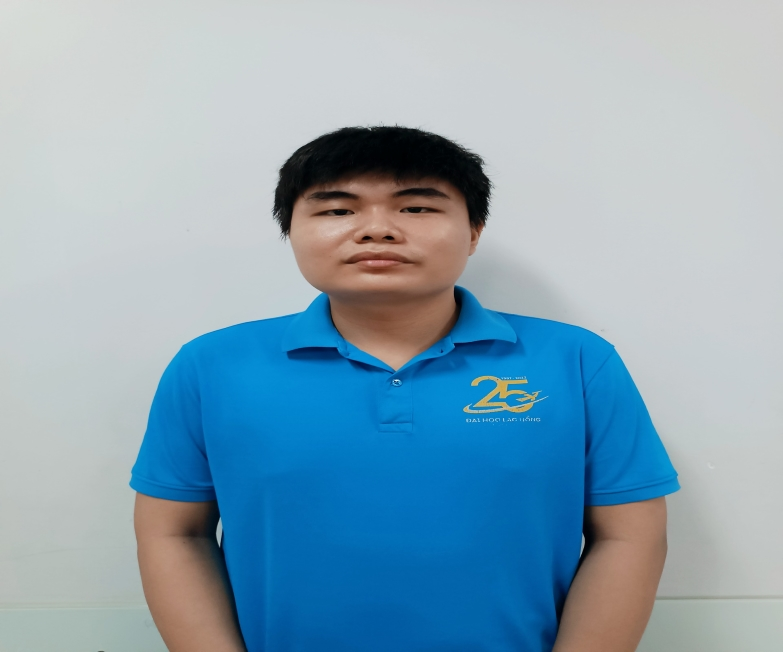
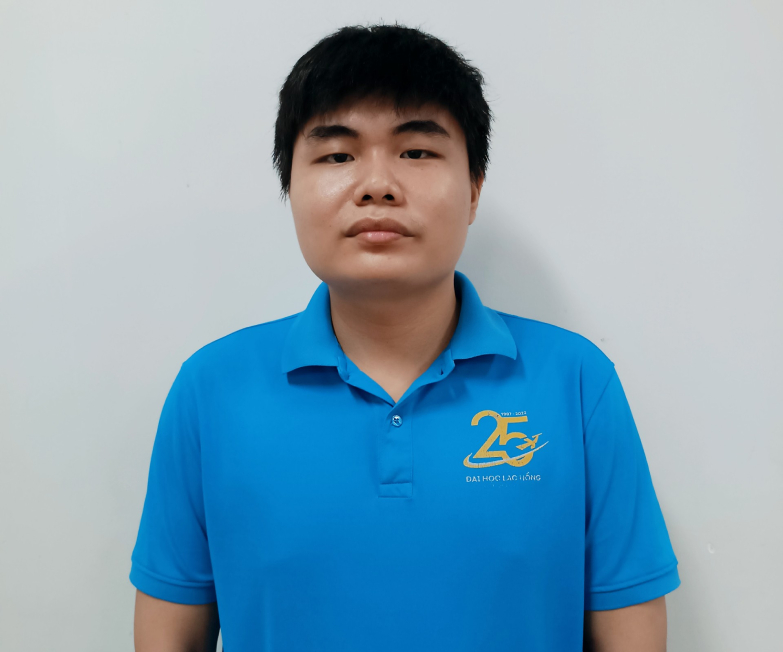
update grid for "Steps" and contributor picture

diff --git a/index.html b/index.html
@@ -116,7 +116,7 @@
         page when looking at its layout. The point of using Lorem</p>
       <div class="product_section_2">
         <div class="row">
-          <div class="col-md-5 offset-md-1 mb-4" style="border-radius: 10px; padding: 0; box-shadow: 1px 1px 8px #888888;">
+          <div class="col-md-5 offset-md-1 col-sm-11 offset-sm-1 col-10 offset-1 col-lg-3 mb-4" style="border-radius: 10px; padding: 0; box-shadow: 1px 1px 8px #888888;">
             <div class="image_2"><img src="images/nhunStep.jpg"
                 style="border-top-left-radius: 10px; border-top-right-radius: 10px;"></div>
             <div style="padding: 0 10px;">
@@ -126,7 +126,7 @@
                 content of a page when looking at its layout. The point of using Lorem lo</p>
             </div>
           </div>
-          <div class="col-md-5 offset-md-1 mb-4" style="border-radius: 10px; padding: 0; box-shadow: 1px 1px 8px #888888;">
+          <div class="col-md-5 offset-md-1 col-sm-11 offset-sm-1 col-10 offset-1 col-lg-3 mb-4" style="border-radius: 10px; padding: 0; box-shadow: 1px 1px 8px #888888;">
             <div class="image_2"><img src="images/nhunStep.jpg"
                 style="border-top-left-radius: 10px; border-top-right-radius: 10px;"></div>
             <div style="padding: 0 10px;">
@@ -136,7 +136,7 @@
                 content of a page when looking at its layout. The point of using Lorem lo</p>
             </div>
           </div>
-          <div class="col-md-5 offset-md-1 mb-4" style="border-radius: 10px; padding: 0; box-shadow: 1px 1px 8px #888888;">
+          <div class="col-md-5 offset-md-1 col-sm-11 offset-sm-1 col-10 offset-1 col-lg-3 mb-4" style="border-radius: 10px; padding: 0; box-shadow: 1px 1px 8px #888888;">
             <div class="image_2"><img src="images/nhunStep.jpg"
                 style="border-top-left-radius: 10px; border-top-right-radius: 10px;"></div>
             <div style="padding: 0 10px;">
@@ -146,7 +146,7 @@
                 content of a page when looking at its layout. The point of using Lorem lo</p>
             </div>
           </div>
-          <div class="col-md-5 offset-md-1 mb-4" style="border-radius: 10px; padding: 0; box-shadow: 1px 1px 8px #888888;">
+          <div class="col-md-5 offset-md-1 col-sm-11 offset-sm-1 col-10 offset-1 col-lg-3 mb-4" style="border-radius: 10px; padding: 0; box-shadow: 1px 1px 8px #888888;">
             <div class="image_2"><img src="images/nhunStep.jpg"
                 style="border-top-left-radius: 10px; border-top-right-radius: 10px;"></div>
             <div style="padding: 0 10px;">
@@ -156,7 +156,27 @@
                 content of a page when looking at its layout. The point of using Lorem lo</p>
             </div>
           </div>
-          <div class="col-md-5 offset-md-4 mb-4" style="border-radius: 10px; padding: 0; box-shadow: 1px 1px 8px #888888;">
+          <div class="col-md-5 offset-md-1 col-sm-11 offset-sm-1 col-10 offset-1 col-lg-3 mb-4" style="border-radius: 10px; padding: 0; box-shadow: 1px 1px 8px #888888;">
+            <div class="image_2"><img src="images/nhunStep.jpg"
+                style="border-top-left-radius: 10px; border-top-right-radius: 10px;"></div>
+            <div style="padding: 0 10px;">
+              <div class="price_text">Step 2</div>
+              <h1 class="game_text">Draw connection diagram </h1>
+              <p class="long_text">It is a long established fact that a reader will be distracted by the readable
+                content of a page when looking at its layout. The point of using Lorem lo</p>
+            </div>
+          </div>
+          <div class="col-md-5 offset-md-1 col-sm-11 offset-sm-1 col-10 offset-1 col-lg-3 mb-4" style="border-radius: 10px; padding: 0; box-shadow: 1px 1px 8px #888888;">
+            <div class="image_2"><img src="images/nhunStep.jpg"
+                style="border-top-left-radius: 10px; border-top-right-radius: 10px;"></div>
+            <div style="padding: 0 10px;">
+              <div class="price_text">Step 2</div>
+              <h1 class="game_text">Draw connection diagram </h1>
+              <p class="long_text">It is a long established fact that a reader will be distracted by the readable
+                content of a page when looking at its layout. The point of using Lorem lo</p>
+            </div>
+          </div>
+          <div class="col-md-5 offset-md-1 col-sm-11 offset-sm-1 col-10 offset-1 col-lg-3 mb-4" style="border-radius: 10px; padding: 0; box-shadow: 1px 1px 8px #888888;">
             <div class="image_2"><img src="images/nhunStep.jpg"
                 style="border-top-left-radius: 10px; border-top-right-radius: 10px;"></div>
             <div style="padding: 0 10px;">
@@ -339,7 +359,7 @@
                         spaceBetween: 40,
                     },
                     992: {
-                        slidesPerView: 1,
+                        slidesPerView: 2,
                         spaceBetween: 20
                     },
                     1200: {

diff --git a/css/style.css b/css/style.css
@@ -114,12 +114,12 @@ a {
     background-color: white;
     border-bottom-left-radius: 10px;
     border-bottom-right-radius: 10px;
-    padding-top: 80px;
+    padding-top: 100px;
 }
 
 .contributor-heading-text h1{
     font-weight: bold;
-    font-size: x-large;
+    font-size: large;
     text-wrap: wrap;
 }
 
@@ -131,6 +131,7 @@ a {
 
 
 .contributor-event-image{
+    width: 100%;
     height: 150px;
     display: flex;
     justify-content: center;
@@ -141,8 +142,8 @@ a {
 }
 
 .contributor-event-image img{
-    width: 200px;
-    height: 200px;
+    width: 50%;
+    height: auto;
     border: 5px solid #4f99e5;
     margin-top: 100px;
 }
